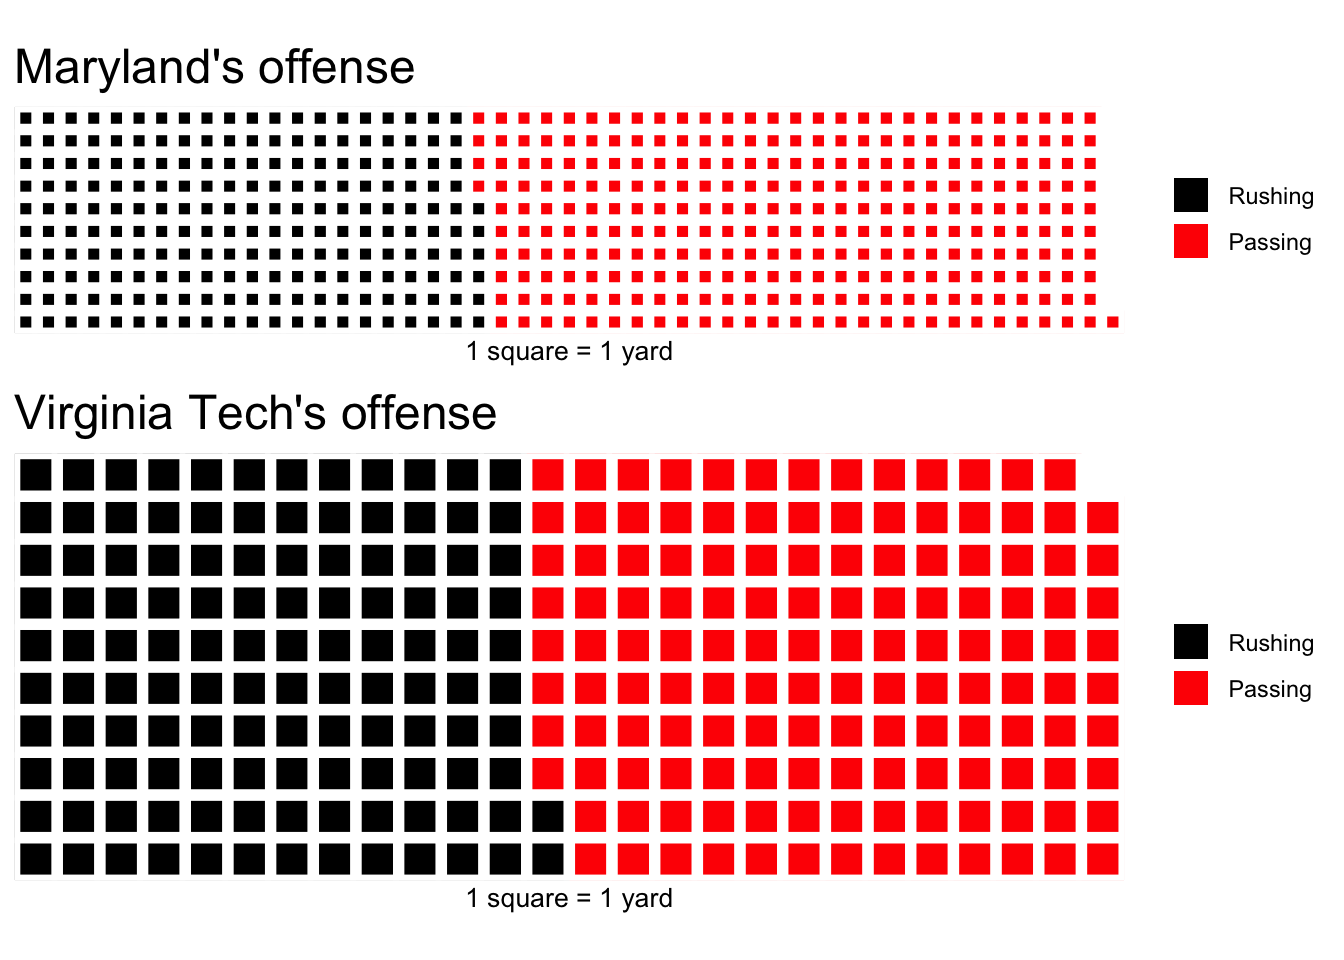
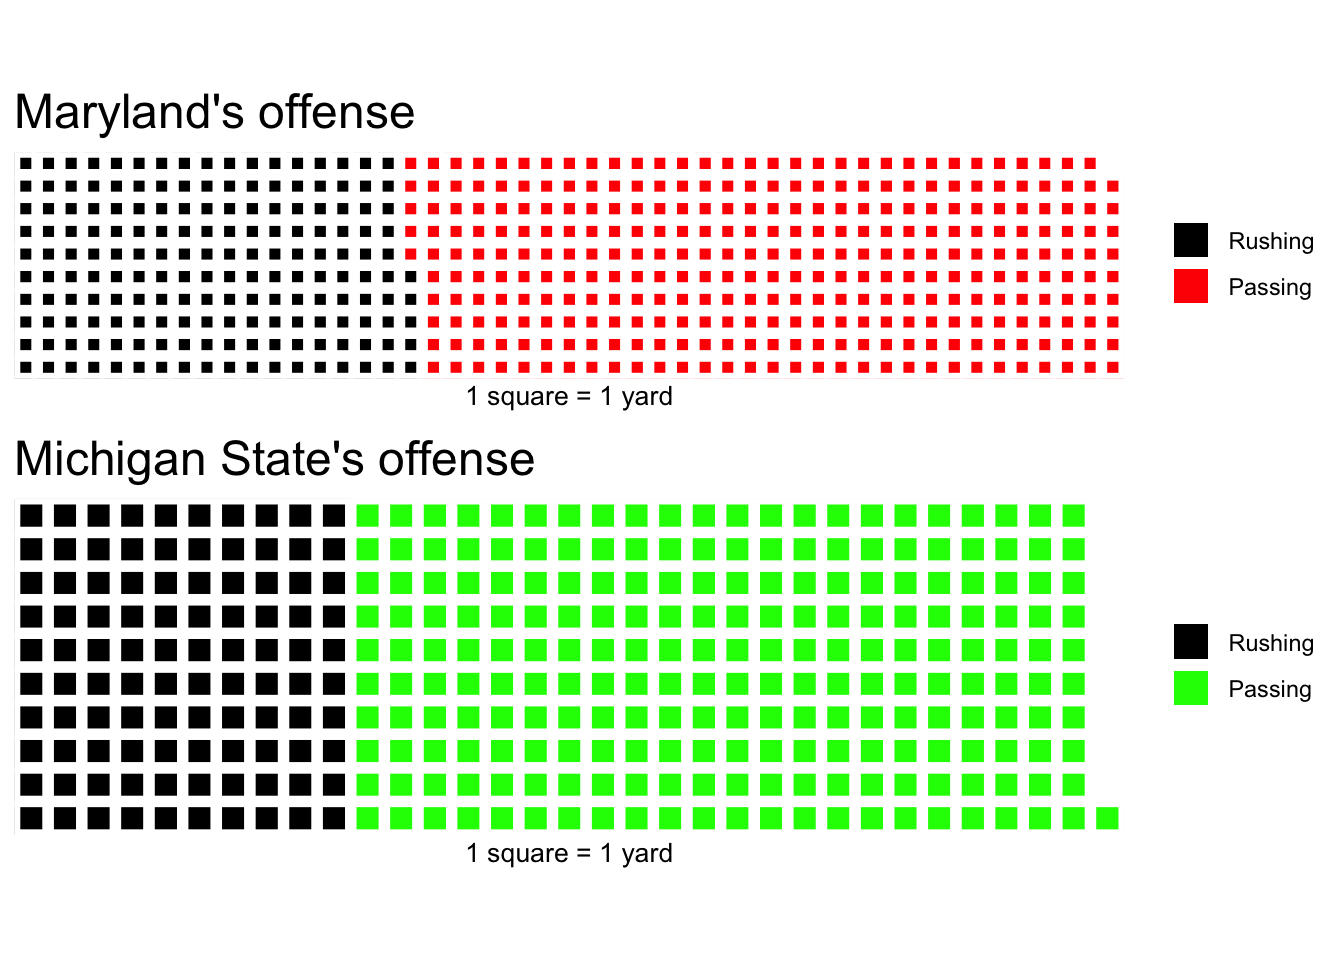
updated wafflecharts

diff --git a/_book/wafflecharts.html b/_book/wafflecharts.html
@@ -385,12 +385,12 @@ code span.wa { color: #60a0b0; font-weight: bold; font-style: italic; } /* Warni
 </div>
 <section id="making-waffles-with-vectors" class="level2" data-number="18.1">
 <h2 data-number="18.1" class="anchored" data-anchor-id="making-waffles-with-vectors"><span class="header-section-number">18.1</span> Making waffles with vectors</h2>
-<p>Let’s look at Maryland’s football bowl game win over Virginia Tech last year. <a href="https://umterps.com/sports/football/stats/2021/virginia-tech/boxscore/12866">Here’s the box score</a>, which we’ll use for this part of the walkthrough.</p>
+<p>Let’s look at Maryland’s football game against Michigan State this season. <a href="https://umterps.com/sports/football/stats/2022/michigan-state/boxscore/10076">Here’s the box score</a>, which we’ll use for this part of the walkthrough.</p>
 <p>Maybe the easiest way to do waffle charts, at least at first, is to make vectors of your data and plug them in. To make a vector, we use the <code>c</code> or concatenate function.</p>
-<p>So let’s look at offense. Rushing vs passing.</p>
+<p>So let’s look at offense. Net rushing vs passing.</p>
 <div class="cell">
-<div class="sourceCode cell-code" id="cb2"><pre class="sourceCode r code-with-copy"><code class="sourceCode r"><span id="cb2-1"><a href="#cb2-1" aria-hidden="true" tabindex="-1"></a>md <span class="ot">&lt;-</span> <span class="fu">c</span>(<span class="st">"Rushing"</span><span class="ot">=</span><span class="dv">206</span>, <span class="st">"Passing"</span><span class="ot">=</span><span class="dv">275</span>)</span>
-<span id="cb2-2"><a href="#cb2-2" aria-hidden="true" tabindex="-1"></a>vt <span class="ot">&lt;-</span> <span class="fu">c</span>(<span class="st">"Rushing"</span><span class="ot">=</span><span class="dv">122</span>, <span class="st">"Passing"</span><span class="ot">=</span><span class="dv">137</span>)</span></code><button title="Copy to Clipboard" class="code-copy-button"><i class="bi"></i></button></pre></div>
+<div class="sourceCode cell-code" id="cb2"><pre class="sourceCode r code-with-copy"><code class="sourceCode r"><span id="cb2-1"><a href="#cb2-1" aria-hidden="true" tabindex="-1"></a>md <span class="ot">&lt;-</span> <span class="fu">c</span>(<span class="st">"Rushing"</span><span class="ot">=</span><span class="dv">175</span>, <span class="st">"Passing"</span><span class="ot">=</span><span class="dv">314</span>)</span>
+<span id="cb2-2"><a href="#cb2-2" aria-hidden="true" tabindex="-1"></a>ms <span class="ot">&lt;-</span> <span class="fu">c</span>(<span class="st">"Rushing"</span><span class="ot">=</span><span class="dv">100</span>, <span class="st">"Passing"</span><span class="ot">=</span><span class="dv">221</span>)</span></code><button title="Copy to Clipboard" class="code-copy-button"><i class="bi"></i></button></pre></div>
 </div>
 <p>So what does the breakdown of the night look like?</p>
 <p>The waffle library can break this down in a way that’s easier on the eyes than a pie chart. We call the library, add the data, specify the number of rows, give it a title and an x value label, and to clean up a quirk of the library, we’ve got to specify colors.</p>
@@ -408,15 +408,15 @@ code span.wa { color: #60a0b0; font-weight: bold; font-style: italic; } /* Warni
 </div>
 <p>Or, we could make this two teams in the same chart.</p>
 <div class="cell">
-<div class="sourceCode cell-code" id="cb4"><pre class="sourceCode r code-with-copy"><code class="sourceCode r"><span id="cb4-1"><a href="#cb4-1" aria-hidden="true" tabindex="-1"></a>passing <span class="ot">&lt;-</span> <span class="fu">c</span>(<span class="st">"Maryland"</span><span class="ot">=</span><span class="dv">275</span>, <span class="st">"Virginia Tech"</span><span class="ot">=</span><span class="dv">137</span>)</span></code><button title="Copy to Clipboard" class="code-copy-button"><i class="bi"></i></button></pre></div>
+<div class="sourceCode cell-code" id="cb4"><pre class="sourceCode r code-with-copy"><code class="sourceCode r"><span id="cb4-1"><a href="#cb4-1" aria-hidden="true" tabindex="-1"></a>passing <span class="ot">&lt;-</span> <span class="fu">c</span>(<span class="st">"Maryland"</span><span class="ot">=</span><span class="dv">314</span>, <span class="st">"Michigan State"</span><span class="ot">=</span><span class="dv">221</span>)</span></code><button title="Copy to Clipboard" class="code-copy-button"><i class="bi"></i></button></pre></div>
 </div>
 <div class="cell">
 <div class="sourceCode cell-code" id="cb5"><pre class="sourceCode r code-with-copy"><code class="sourceCode r"><span id="cb5-1"><a href="#cb5-1" aria-hidden="true" tabindex="-1"></a><span class="fu">waffle</span>(</span>
 <span id="cb5-2"><a href="#cb5-2" aria-hidden="true" tabindex="-1"></a>        passing, </span>
 <span id="cb5-3"><a href="#cb5-3" aria-hidden="true" tabindex="-1"></a>        <span class="at">rows =</span> <span class="dv">10</span>, </span>
-<span id="cb5-4"><a href="#cb5-4" aria-hidden="true" tabindex="-1"></a>        <span class="at">title=</span><span class="st">"Maryland vs Virginia Tech: passing"</span>, </span>
+<span id="cb5-4"><a href="#cb5-4" aria-hidden="true" tabindex="-1"></a>        <span class="at">title=</span><span class="st">"Maryland vs Michigan State: passing"</span>, </span>
 <span id="cb5-5"><a href="#cb5-5" aria-hidden="true" tabindex="-1"></a>        <span class="at">xlab=</span><span class="st">"1 square = 1 yard"</span>, </span>
-<span id="cb5-6"><a href="#cb5-6" aria-hidden="true" tabindex="-1"></a>        <span class="at">colors =</span> <span class="fu">c</span>(<span class="st">"red"</span>, <span class="st">"black"</span>)</span>
+<span id="cb5-6"><a href="#cb5-6" aria-hidden="true" tabindex="-1"></a>        <span class="at">colors =</span> <span class="fu">c</span>(<span class="st">"red"</span>, <span class="st">"green"</span>)</span>
 <span id="cb5-7"><a href="#cb5-7" aria-hidden="true" tabindex="-1"></a>)</span></code><button title="Copy to Clipboard" class="code-copy-button"><i class="bi"></i></button></pre></div>
 <div class="cell-output-display">
 <p><img src="wafflecharts_files/figure-html/unnamed-chunk-5-1.png" class="img-fluid" width="672"></p>
@@ -431,21 +431,21 @@ code span.wa { color: #60a0b0; font-weight: bold; font-style: italic; } /* Warni
 <span id="cb6-5"><a href="#cb6-5" aria-hidden="true" tabindex="-1"></a>        <span class="at">xlab=</span><span class="st">"1 square = 1 yard"</span>, </span>
 <span id="cb6-6"><a href="#cb6-6" aria-hidden="true" tabindex="-1"></a>        <span class="at">colors =</span> <span class="fu">c</span>(<span class="st">"black"</span>, <span class="st">"red"</span>)</span>
 <span id="cb6-7"><a href="#cb6-7" aria-hidden="true" tabindex="-1"></a>        ),</span>
-<span id="cb6-8"><a href="#cb6-8" aria-hidden="true" tabindex="-1"></a> <span class="fu">waffle</span>(vt, </span>
+<span id="cb6-8"><a href="#cb6-8" aria-hidden="true" tabindex="-1"></a> <span class="fu">waffle</span>(ms, </span>
 <span id="cb6-9"><a href="#cb6-9" aria-hidden="true" tabindex="-1"></a>        <span class="at">rows =</span> <span class="dv">10</span>, </span>
-<span id="cb6-10"><a href="#cb6-10" aria-hidden="true" tabindex="-1"></a>        <span class="at">title=</span><span class="st">"Virginia Tech's offense"</span>, </span>
+<span id="cb6-10"><a href="#cb6-10" aria-hidden="true" tabindex="-1"></a>        <span class="at">title=</span><span class="st">"Michigan State's offense"</span>, </span>
 <span id="cb6-11"><a href="#cb6-11" aria-hidden="true" tabindex="-1"></a>        <span class="at">xlab=</span><span class="st">"1 square = 1 yard"</span>, </span>
-<span id="cb6-12"><a href="#cb6-12" aria-hidden="true" tabindex="-1"></a>        <span class="at">colors =</span> <span class="fu">c</span>(<span class="st">"black"</span>, <span class="st">"red"</span>)</span>
+<span id="cb6-12"><a href="#cb6-12" aria-hidden="true" tabindex="-1"></a>        <span class="at">colors =</span> <span class="fu">c</span>(<span class="st">"black"</span>, <span class="st">"green"</span>)</span>
 <span id="cb6-13"><a href="#cb6-13" aria-hidden="true" tabindex="-1"></a>        )</span>
 <span id="cb6-14"><a href="#cb6-14" aria-hidden="true" tabindex="-1"></a>)</span></code><button title="Copy to Clipboard" class="code-copy-button"><i class="bi"></i></button></pre></div>
 <div class="cell-output-display">
 <p><img src="wafflecharts_files/figure-html/unnamed-chunk-6-1.png" class="img-fluid" width="672"></p>
 </div>
 </div>
-<p>What do you notice about this chart? Notice how the squares aren’t the same size? Well, Maryland out-gained Virginia Tech by a long way. So the squares aren’t the same size because the numbers aren’t the same. We can fix that by adding an unnamed padding number so the number of yards add up to the same thing. Let’s make the total for everyone be 481, Maryland’s total yards of offense. So to do that, we need to add a padding of 222 to Virginia Tech. REMEMBER: Don’t name it or it’ll show up in the legend.</p>
+<p>What do you notice about this chart? Notice how the squares aren’t the same size? Well, Maryland out-gained Michigan State by a long way. So the squares aren’t the same size because the numbers aren’t the same. We can fix that by adding an unnamed padding number so the number of yards add up to the same thing. Let’s make the total for everyone be 489, Maryland’s total yards of offense. So to do that, we need to add a padding of 168 to Michigan State. REMEMBER: Don’t name it or it’ll show up in the legend.</p>
 <div class="cell">
-<div class="sourceCode cell-code" id="cb7"><pre class="sourceCode r code-with-copy"><code class="sourceCode r"><span id="cb7-1"><a href="#cb7-1" aria-hidden="true" tabindex="-1"></a>md <span class="ot">&lt;-</span> <span class="fu">c</span>(<span class="st">"Rushing"</span><span class="ot">=</span><span class="dv">206</span>, <span class="st">"Passing"</span><span class="ot">=</span><span class="dv">275</span>)</span>
-<span id="cb7-2"><a href="#cb7-2" aria-hidden="true" tabindex="-1"></a>vt <span class="ot">&lt;-</span> <span class="fu">c</span>(<span class="st">"Rushing"</span><span class="ot">=</span><span class="dv">122</span>, <span class="st">"Passing"</span><span class="ot">=</span><span class="dv">137</span>, <span class="dv">222</span>)</span></code><button title="Copy to Clipboard" class="code-copy-button"><i class="bi"></i></button></pre></div>
+<div class="sourceCode cell-code" id="cb7"><pre class="sourceCode r code-with-copy"><code class="sourceCode r"><span id="cb7-1"><a href="#cb7-1" aria-hidden="true" tabindex="-1"></a>md <span class="ot">&lt;-</span> <span class="fu">c</span>(<span class="st">"Rushing"</span><span class="ot">=</span><span class="dv">175</span>, <span class="st">"Passing"</span><span class="ot">=</span><span class="dv">314</span>)</span>
+<span id="cb7-2"><a href="#cb7-2" aria-hidden="true" tabindex="-1"></a>ms <span class="ot">&lt;-</span> <span class="fu">c</span>(<span class="st">"Rushing"</span><span class="ot">=</span><span class="dv">100</span>, <span class="st">"Passing"</span><span class="ot">=</span><span class="dv">221</span>, <span class="dv">168</span>)</span></code><button title="Copy to Clipboard" class="code-copy-button"><i class="bi"></i></button></pre></div>
 </div>
 <p>Now, in our waffle iron, if we don’t give that padding a color, we’ll get an error. So we need to make it white. Which, given our white background, means it will disappear.</p>
 <div class="cell">
@@ -456,11 +456,11 @@ code span.wa { color: #60a0b0; font-weight: bold; font-style: italic; } /* Warni
 <span id="cb8-5"><a href="#cb8-5" aria-hidden="true" tabindex="-1"></a>        <span class="at">xlab=</span><span class="st">"1 square = 1 yard"</span>, </span>
 <span id="cb8-6"><a href="#cb8-6" aria-hidden="true" tabindex="-1"></a>        <span class="at">colors =</span> <span class="fu">c</span>(<span class="st">"black"</span>, <span class="st">"red"</span>)</span>
 <span id="cb8-7"><a href="#cb8-7" aria-hidden="true" tabindex="-1"></a>        ),</span>
-<span id="cb8-8"><a href="#cb8-8" aria-hidden="true" tabindex="-1"></a> <span class="fu">waffle</span>(vt, </span>
+<span id="cb8-8"><a href="#cb8-8" aria-hidden="true" tabindex="-1"></a> <span class="fu">waffle</span>(ms, </span>
 <span id="cb8-9"><a href="#cb8-9" aria-hidden="true" tabindex="-1"></a>        <span class="at">rows =</span> <span class="dv">10</span>, </span>
-<span id="cb8-10"><a href="#cb8-10" aria-hidden="true" tabindex="-1"></a>        <span class="at">title=</span><span class="st">"Virginia Tech's offense"</span>, </span>
+<span id="cb8-10"><a href="#cb8-10" aria-hidden="true" tabindex="-1"></a>        <span class="at">title=</span><span class="st">"Michigan State's offense"</span>, </span>
 <span id="cb8-11"><a href="#cb8-11" aria-hidden="true" tabindex="-1"></a>        <span class="at">xlab=</span><span class="st">"1 square = 1 yard"</span>,</span>
-<span id="cb8-12"><a href="#cb8-12" aria-hidden="true" tabindex="-1"></a>        <span class="at">colors =</span> <span class="fu">c</span>(<span class="st">"orange"</span>, <span class="st">"brown"</span>, <span class="st">"white"</span>)</span>
+<span id="cb8-12"><a href="#cb8-12" aria-hidden="true" tabindex="-1"></a>        <span class="at">colors =</span> <span class="fu">c</span>(<span class="st">"black"</span>, <span class="st">"green"</span>, <span class="st">"white"</span>)</span>
 <span id="cb8-13"><a href="#cb8-13" aria-hidden="true" tabindex="-1"></a>        )</span>
 <span id="cb8-14"><a href="#cb8-14" aria-hidden="true" tabindex="-1"></a>)</span></code><button title="Copy to Clipboard" class="code-copy-button"><i class="bi"></i></button></pre></div>
 <div class="cell-output-display">
@@ -476,18 +476,18 @@ code span.wa { color: #60a0b0; font-weight: bold; font-style: italic; } /* Warni
 <span id="cb9-5"><a href="#cb9-5" aria-hidden="true" tabindex="-1"></a>        <span class="at">xlab=</span><span class="st">"1 square = 1 yard"</span>, </span>
 <span id="cb9-6"><a href="#cb9-6" aria-hidden="true" tabindex="-1"></a>        <span class="at">colors =</span> <span class="fu">c</span>(<span class="st">"black"</span>, <span class="st">"red"</span>)</span>
 <span id="cb9-7"><a href="#cb9-7" aria-hidden="true" tabindex="-1"></a>        ),</span>
-<span id="cb9-8"><a href="#cb9-8" aria-hidden="true" tabindex="-1"></a> <span class="fu">waffle</span>(vt<span class="sc">/</span><span class="dv">2</span>, </span>
+<span id="cb9-8"><a href="#cb9-8" aria-hidden="true" tabindex="-1"></a> <span class="fu">waffle</span>(ms<span class="sc">/</span><span class="dv">2</span>, </span>
 <span id="cb9-9"><a href="#cb9-9" aria-hidden="true" tabindex="-1"></a>        <span class="at">rows =</span> <span class="dv">10</span>, </span>
-<span id="cb9-10"><a href="#cb9-10" aria-hidden="true" tabindex="-1"></a>        <span class="at">title=</span><span class="st">"Virginia Tech's offense"</span>, </span>
+<span id="cb9-10"><a href="#cb9-10" aria-hidden="true" tabindex="-1"></a>        <span class="at">title=</span><span class="st">"Michigan State's offense"</span>, </span>
 <span id="cb9-11"><a href="#cb9-11" aria-hidden="true" tabindex="-1"></a>        <span class="at">xlab=</span><span class="st">"1 square = 1 yard"</span>,</span>
-<span id="cb9-12"><a href="#cb9-12" aria-hidden="true" tabindex="-1"></a>        <span class="at">colors =</span> <span class="fu">c</span>(<span class="st">"orange"</span>, <span class="st">"brown"</span>, <span class="st">"white"</span>)</span>
+<span id="cb9-12"><a href="#cb9-12" aria-hidden="true" tabindex="-1"></a>        <span class="at">colors =</span> <span class="fu">c</span>(<span class="st">"black"</span>, <span class="st">"green"</span>, <span class="st">"white"</span>)</span>
 <span id="cb9-13"><a href="#cb9-13" aria-hidden="true" tabindex="-1"></a>        )</span>
 <span id="cb9-14"><a href="#cb9-14" aria-hidden="true" tabindex="-1"></a>)</span></code><button title="Copy to Clipboard" class="code-copy-button"><i class="bi"></i></button></pre></div>
 <div class="cell-output-display">
 <p><img src="wafflecharts_files/figure-html/unnamed-chunk-9-1.png" class="img-fluid" width="672"></p>
 </div>
 </div>
-<p>News flash: Virginia Tech is changing its fight song to “Everybody Hurts” by REM.</p>
+<p>News flash: Michigan State is changing its fight song to “Everybody Hurts” by REM.</p>
 
 
 </section>
